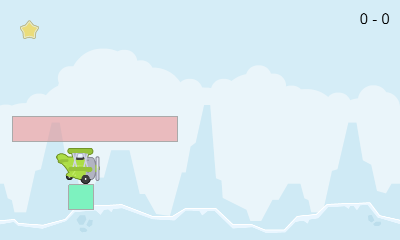
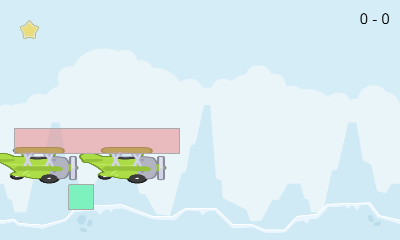
image

Changed region(s): [[0.0, 0.4667, 0.45, 0.7875]]

diff --git a/loop/engine/GameObject.js b/loop/engine/GameObject.js
@@ -137,15 +137,14 @@ class GameObject {
 
     get image() { return this.container.sprite.image };
     set image(value) {
+        console.log(value);
         if (value != this.container.sprite.image) {
-            this.container.sprite.texture = player.file.loader.resources[value].texture;
-      //      this.container.sprite.width = this.container.sprite.texture.width * this.tileX;
-      //      this.container.sprite.height = this.container.sprite.texture.height * this.tileY;
             this.container.sprite.image = value;
+            this.container.sprite.texture = player.file.loader.resources[value].texture;
+            this.container.sprite.width = this.container.sprite.texture.width * this.tileX;
+            this.container.sprite.height = this.container.sprite.texture.height * this.tileY;
             this.width = this.container.sprite.texture.width * this.tileX * this.scaleX;
             this.height = this.container.sprite.texture.height * this.tileY * this.scaleY;
-            // this.rigidbody.getFixtureList().m_shape = planck.Box((this.width / 2) * Physics.metersPerPixel, (this.height / 2) * Physics.metersPerPixel);
-            // console.log(this.image, this.width, this.rigidbody.getFixtureList().m_shape);
         }
     };
 
@@ -222,6 +221,4 @@ class GameObject {
     set offsetY(value) {
         this.container.text.position.y = value;
     };
-
-
 }

diff --git a/loop/engine/Engine.js b/loop/engine/Engine.js
@@ -4,7 +4,7 @@ class Engine {
         this.ffps = 60;
         this.dt = 1000 / this.ffps;
         this.currentTime = this.accumulator = this.t = this.frameTime = 0.0;
-        this.debug = true;
+        this.debug = gameModel.debug;
         // Create data structures
         this.gameObjects = new Map();
         this.gameProperties = gameModel.allProperties;

diff --git a/loop/engine/Sprite.js b/loop/engine/Sprite.js
@@ -24,7 +24,6 @@ class Sprite {
         sprite.tileX = actor.tileX;
         sprite.tileY = actor.tileY;
         if (!scroll) sprite.cacheAsBitmap = true;
-        console.log(sprite.image,sprite.texture.width,sprite.width,sprite.tileX,sprite.scale.x)
         return (sprite);
     }
 }
